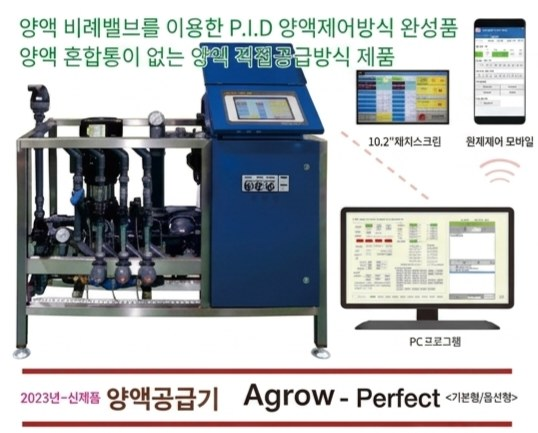
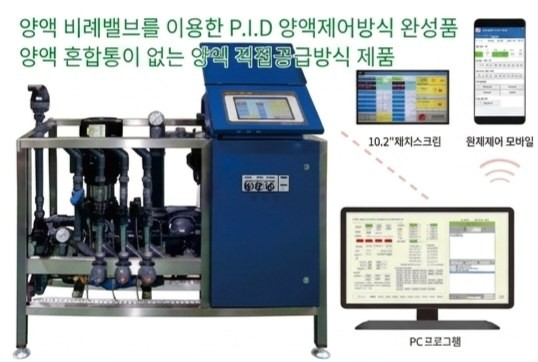
Agrow-Perfect photo: remove the bottom name band like the other models (all 10 language versions)
Claude-Session: https://claude.ai/code/session_01GFyfSSF2Nhmp7uwBnWgPmD

diff --git a/index.html b/index.html
@@ -839,7 +839,7 @@ html[lang=th] body,html[lang=th] body *{font-family:'Inter','Noto Sans Thai',san
   <h2 class="sec-t rv" data-i="prod_t">전체 제품 라인업</h2>
   <div class="tabs rv" id="tabRow"></div>
   <div class="pg" id="prodGrid">
-    <div class="pc" data-c="0"><a class="ci" href="products/ko/perfect.html" data-slug="perfect" title="상세 사양 보기" data-it="prod_more"><span class="bdg" data-i="bdg_new">신제품</span><img width="538" height="433" src="images/agrow_perfect.jpg" alt="Agrow-Perfect" loading="lazy"></a><div class="cb"><div class="cc" data-i="cat_n">양액공급기</div><h3 class="cn"><a class="cn-a" href="products/ko/perfect.html" data-slug="perfect">Agrow-Perfect</a></h3><div class="cd" data-i="pd_perfect">PID 양액 제어방식 완성품. 혼합통 없는 직접공급방식. 10.2" 터치스크린 + PC + 모바일 원격제어.</div><span class="cm">HPA-9001</span><a class="pmore" href="catalog.html?product=perfect" target="_blank" rel="noopener" data-i="cat_view">카탈로그 보기</a></div></div>
+    <div class="pc" data-c="0"><a class="ci" href="products/ko/perfect.html" data-slug="perfect" title="상세 사양 보기" data-it="prod_more"><span class="bdg" data-i="bdg_new">신제품</span><img width="538" height="362" src="images/agrow_perfect.jpg" alt="Agrow-Perfect" loading="lazy"></a><div class="cb"><div class="cc" data-i="cat_n">양액공급기</div><h3 class="cn"><a class="cn-a" href="products/ko/perfect.html" data-slug="perfect">Agrow-Perfect</a></h3><div class="cd" data-i="pd_perfect">PID 양액 제어방식 완성품. 혼합통 없는 직접공급방식. 10.2" 터치스크린 + PC + 모바일 원격제어.</div><span class="cm">HPA-9001</span><a class="pmore" href="catalog.html?product=perfect" target="_blank" rel="noopener" data-i="cat_view">카탈로그 보기</a></div></div>
     <div class="pc" data-c="0"><a class="ci" href="products/ko/7000plus.html" data-slug="7000plus" title="상세 사양 보기" data-it="prod_more"><span class="bdg gold" data-i="bdg_top">최고사양</span><img width="1000" height="718" src="images/agrow_7000plus.jpg" alt="Agrow-7000 Plus" loading="lazy"></a><div class="cb"><div class="cc" data-i="cat_n">양액공급기</div><h3 class="cn"><a class="cn-a" href="products/ko/7000plus.html" data-slug="7000plus">Agrow-7000 Plus</a></h3><div class="cd" data-i="pd_7000p">PC+스마트폰 연동, 독립 프로그램 5개, 원격제어 10채널. 복합비례제어 지원.</div><span class="cm">HPA-7000 PLUS</span><a class="pmore" href="catalog.html?product=7000plus" target="_blank" rel="noopener" data-i="cat_view">카탈로그 보기</a></div></div>
     <div class="pc" data-c="0"><a class="ci" href="products/ko/7000.html" data-slug="7000" title="상세 사양 보기" data-it="prod_more"><img width="1000" height="718" src="images/agrow_7000.jpg" alt="Agrow-7000" loading="lazy"></a><div class="cb"><div class="cc" data-i="cat_n">양액공급기</div><h3 class="cn"><a class="cn-a" href="products/ko/7000.html" data-slug="7000">Agrow-7000</a></h3><div class="cd" data-i="pd_7000">수출 20년 노하우. 5개 독립 프로그램. 양액 6종(A~F) 복합비례제어.</div><span class="cm">HPA-7000</span><a class="pmore" href="catalog.html?product=7000" target="_blank" rel="noopener" data-i="cat_view">카탈로그 보기</a></div></div>
     <div class="pc" data-c="0"><a class="ci" href="products/ko/6000plus.html" data-slug="6000plus" title="상세 사양 보기" data-it="prod_more"><span class="bdg gold" data-i="bdg_no1">판매 1위</span><img width="1000" height="718" src="images/agrow_6000plus.jpg" alt="Agrow-6000 Plus" loading="lazy"></a><div class="cb"><div class="cc" data-i="cat_n">양액공급기</div><h3 class="cn"><a class="cn-a" href="products/ko/6000plus.html" data-slug="6000plus">Agrow-6000 Plus</a></h3><div class="cd" data-i="pd_6000p">농가 선택 판매 1위. PC+스마트폰 연동. 10.2" 터치스크린. 복합작물 우선 제품.</div><span class="cm">HPA-6000 PLUS</span><a class="pmore" href="catalog.html?product=6000plus" target="_blank" rel="noopener" data-i="cat_view">카탈로그 보기</a></div></div>
